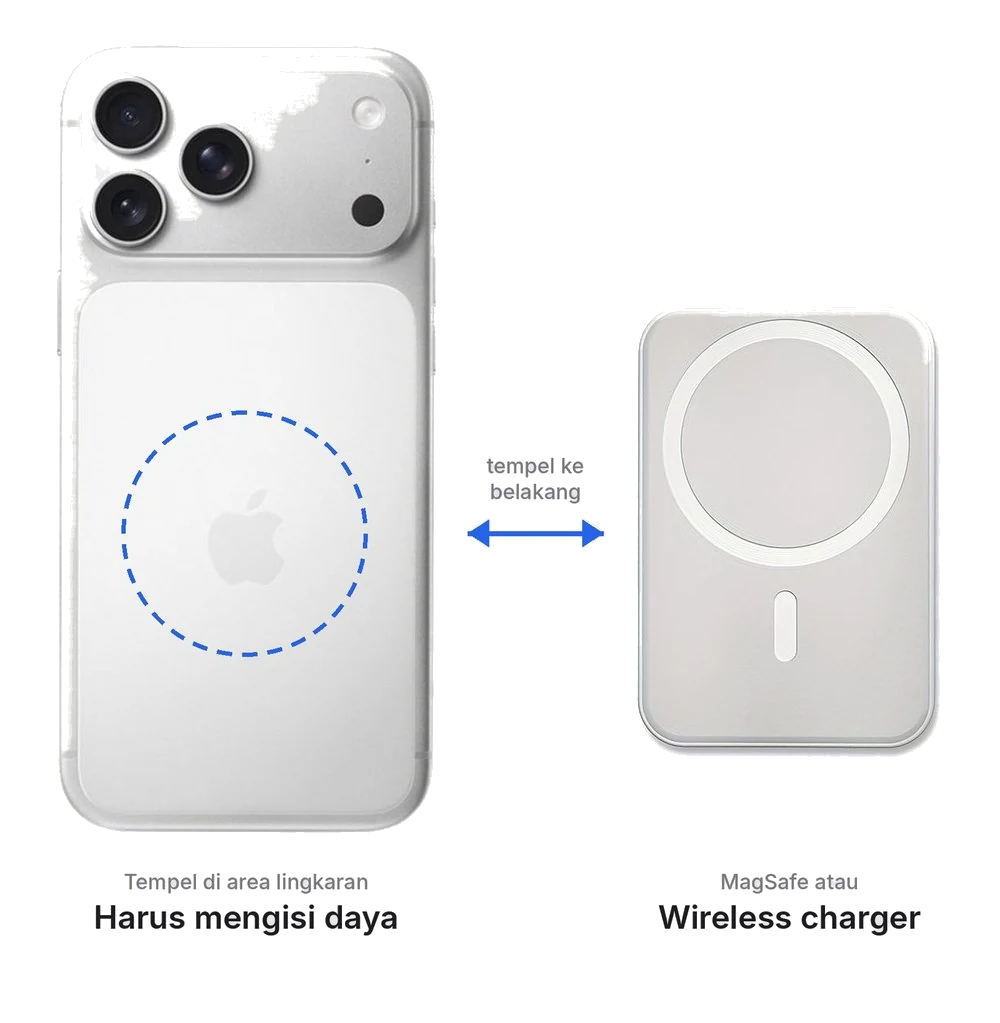
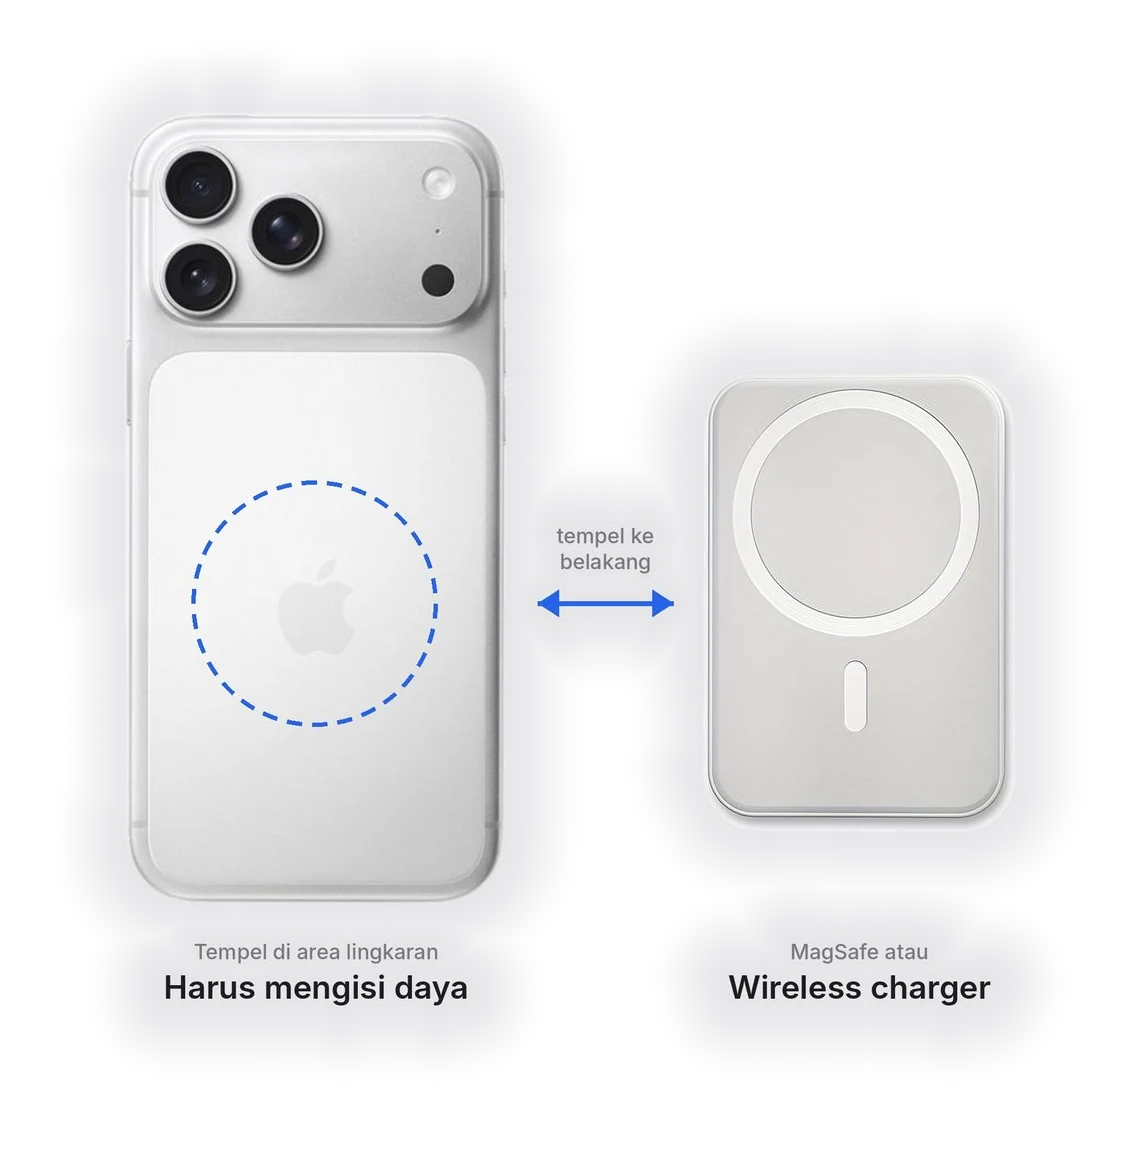
Gambar wireless charging: objek utuh dengan glow lembut mengikuti bentuk, tanpa efek potongan
HP putih & charger MagSafe warnanya hampir sama dengan latar abu, sehingga cara transparan
biasa membuat tepinya pudar. Sekarang latar abu dipertahankan di sekitar objek lalu memudar
perlahan (glow mengikuti bentuk), tepi gambar ditambah ruang agar tidak terpotong. sw v65.

Claude-Session: https://claude.ai/code/session_01T5xMfUmYxqi5fKuphGFddX

diff --git a/sw.js b/sw.js
@@ -1,4 +1,4 @@
-const C="cek-iphone-v64";
+const C="cek-iphone-v65";
 const CORE=["./","./index.html"];
 self.addEventListener("install",e=>{
   // cache:"reload" = ambil langsung dari server, jangan dari cache browser
